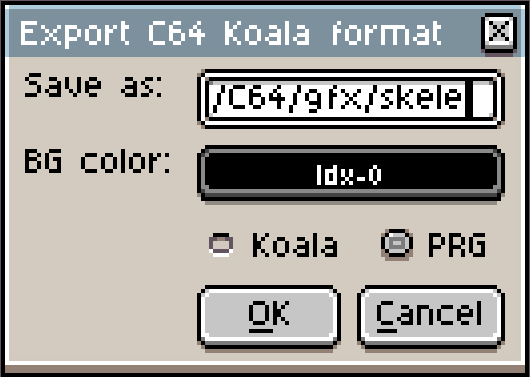
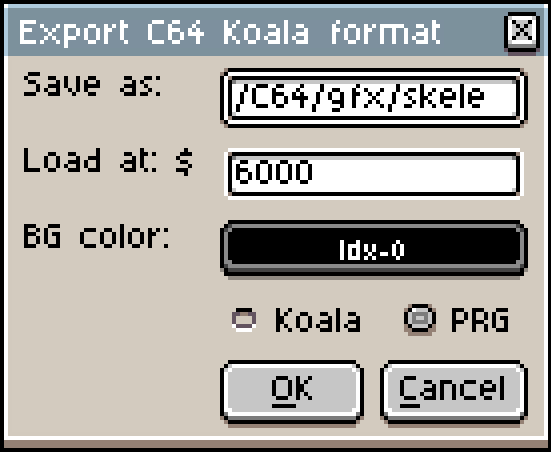
Updated docs with load address setting on export

diff --git a/readme.md b/readme.md
@@ -59,6 +59,8 @@ Toggles the visibility of the opportunity map on and off.
 ### Save as
 The filename to save the koala/prg file, without extension. By default it is the same as the currently open asperite file name, but you can modify it by hand.
 Unfortunately it seems that there are no file picker accessible from the scripts yet. :(
+### Load at $6000
+Specify the load address of the koala file.
 ### BG Color
 Which color index to use as the background color?
 ### Koala/PRG radio buttons
